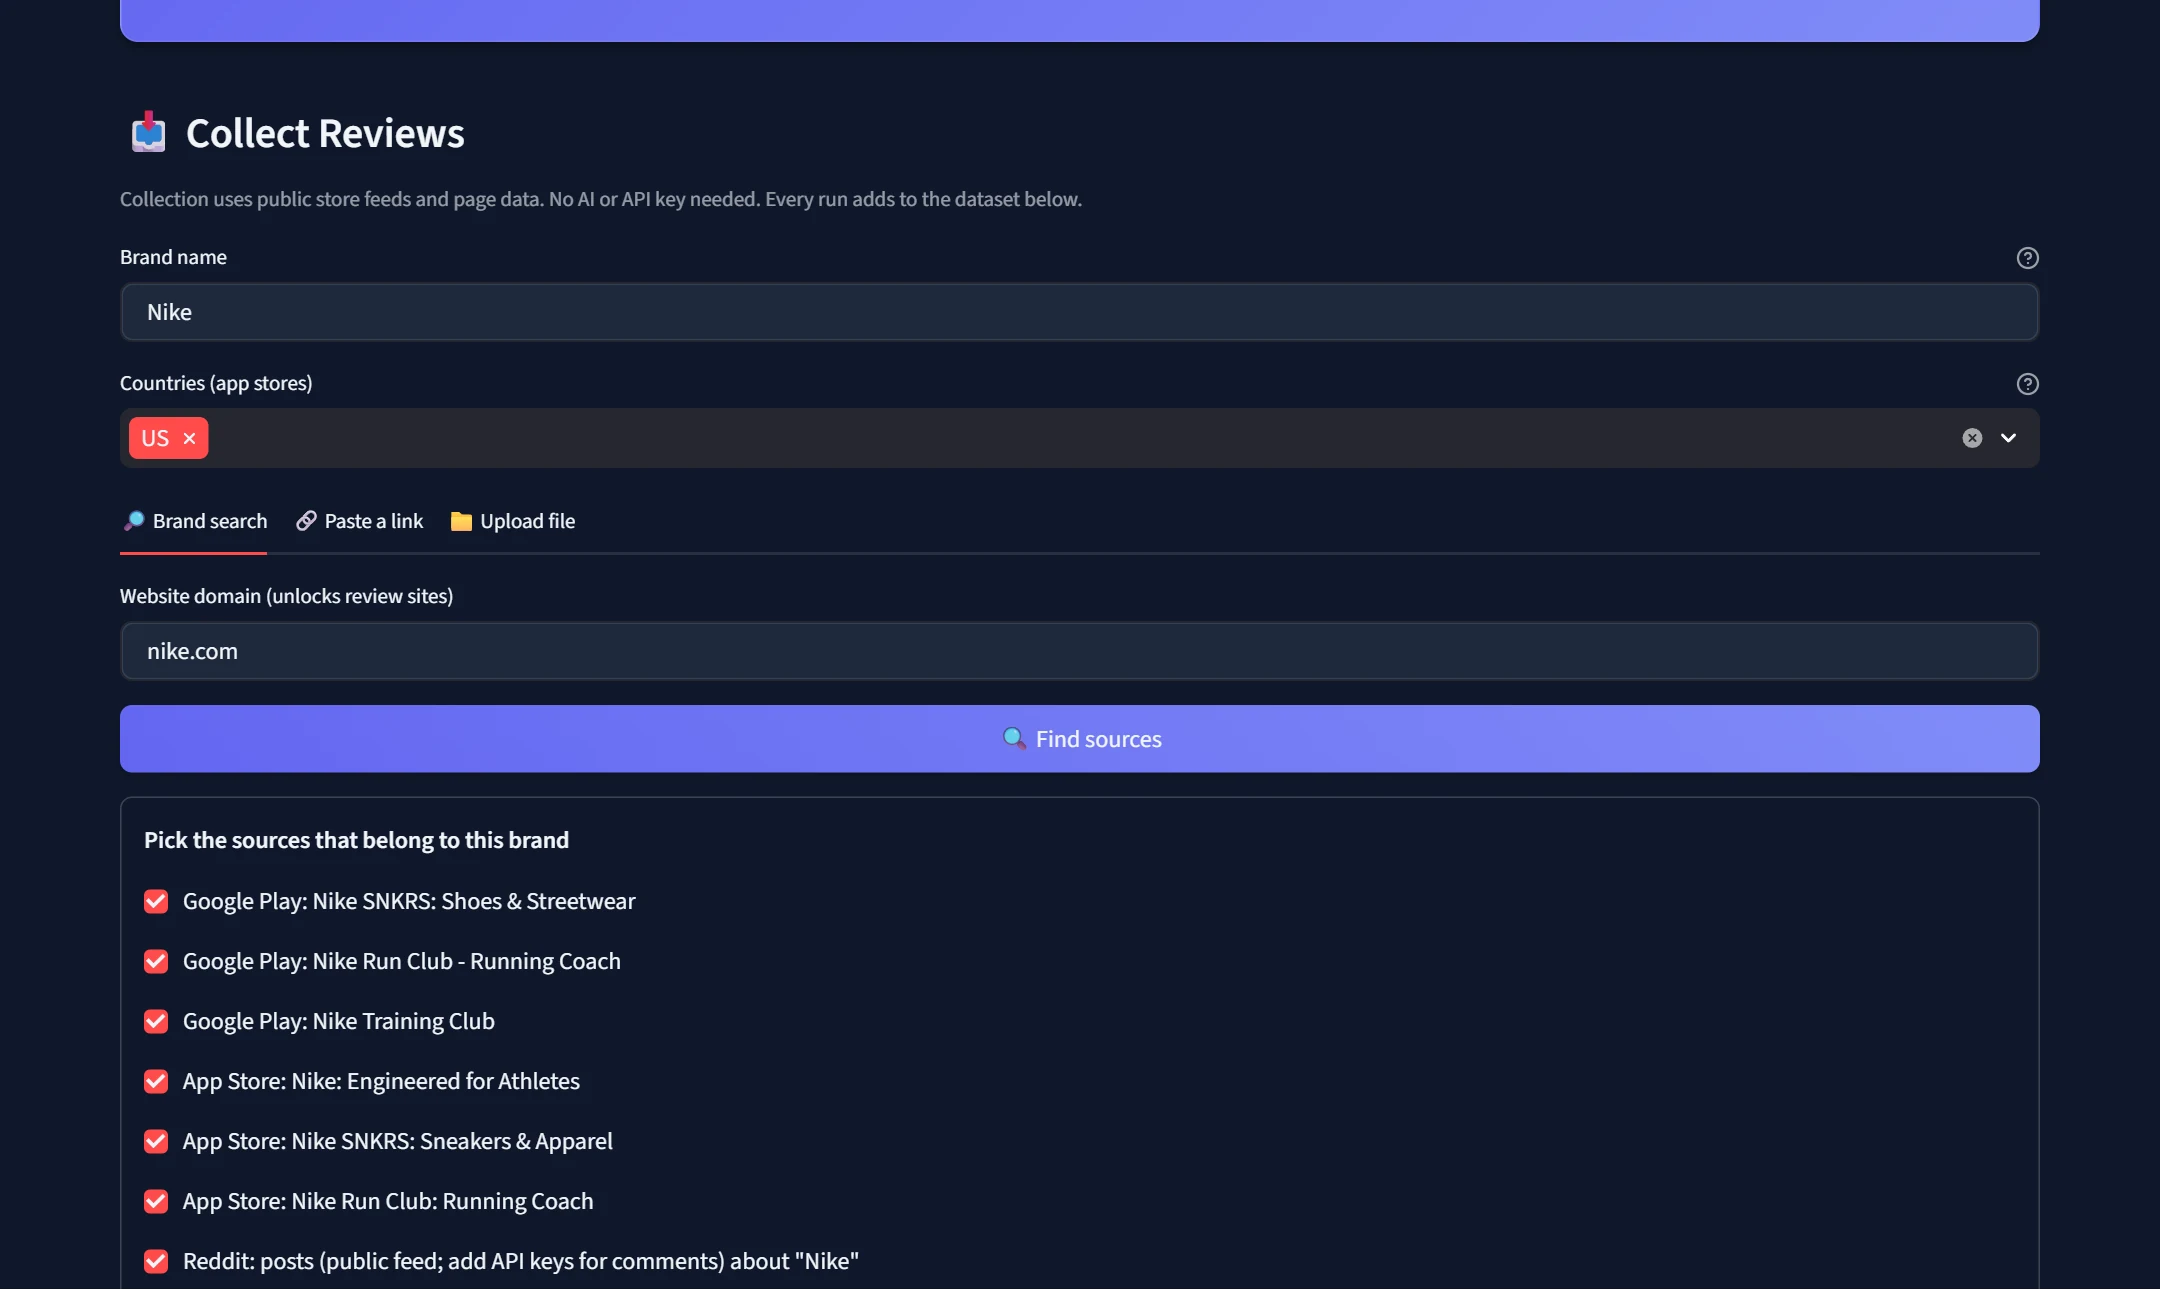
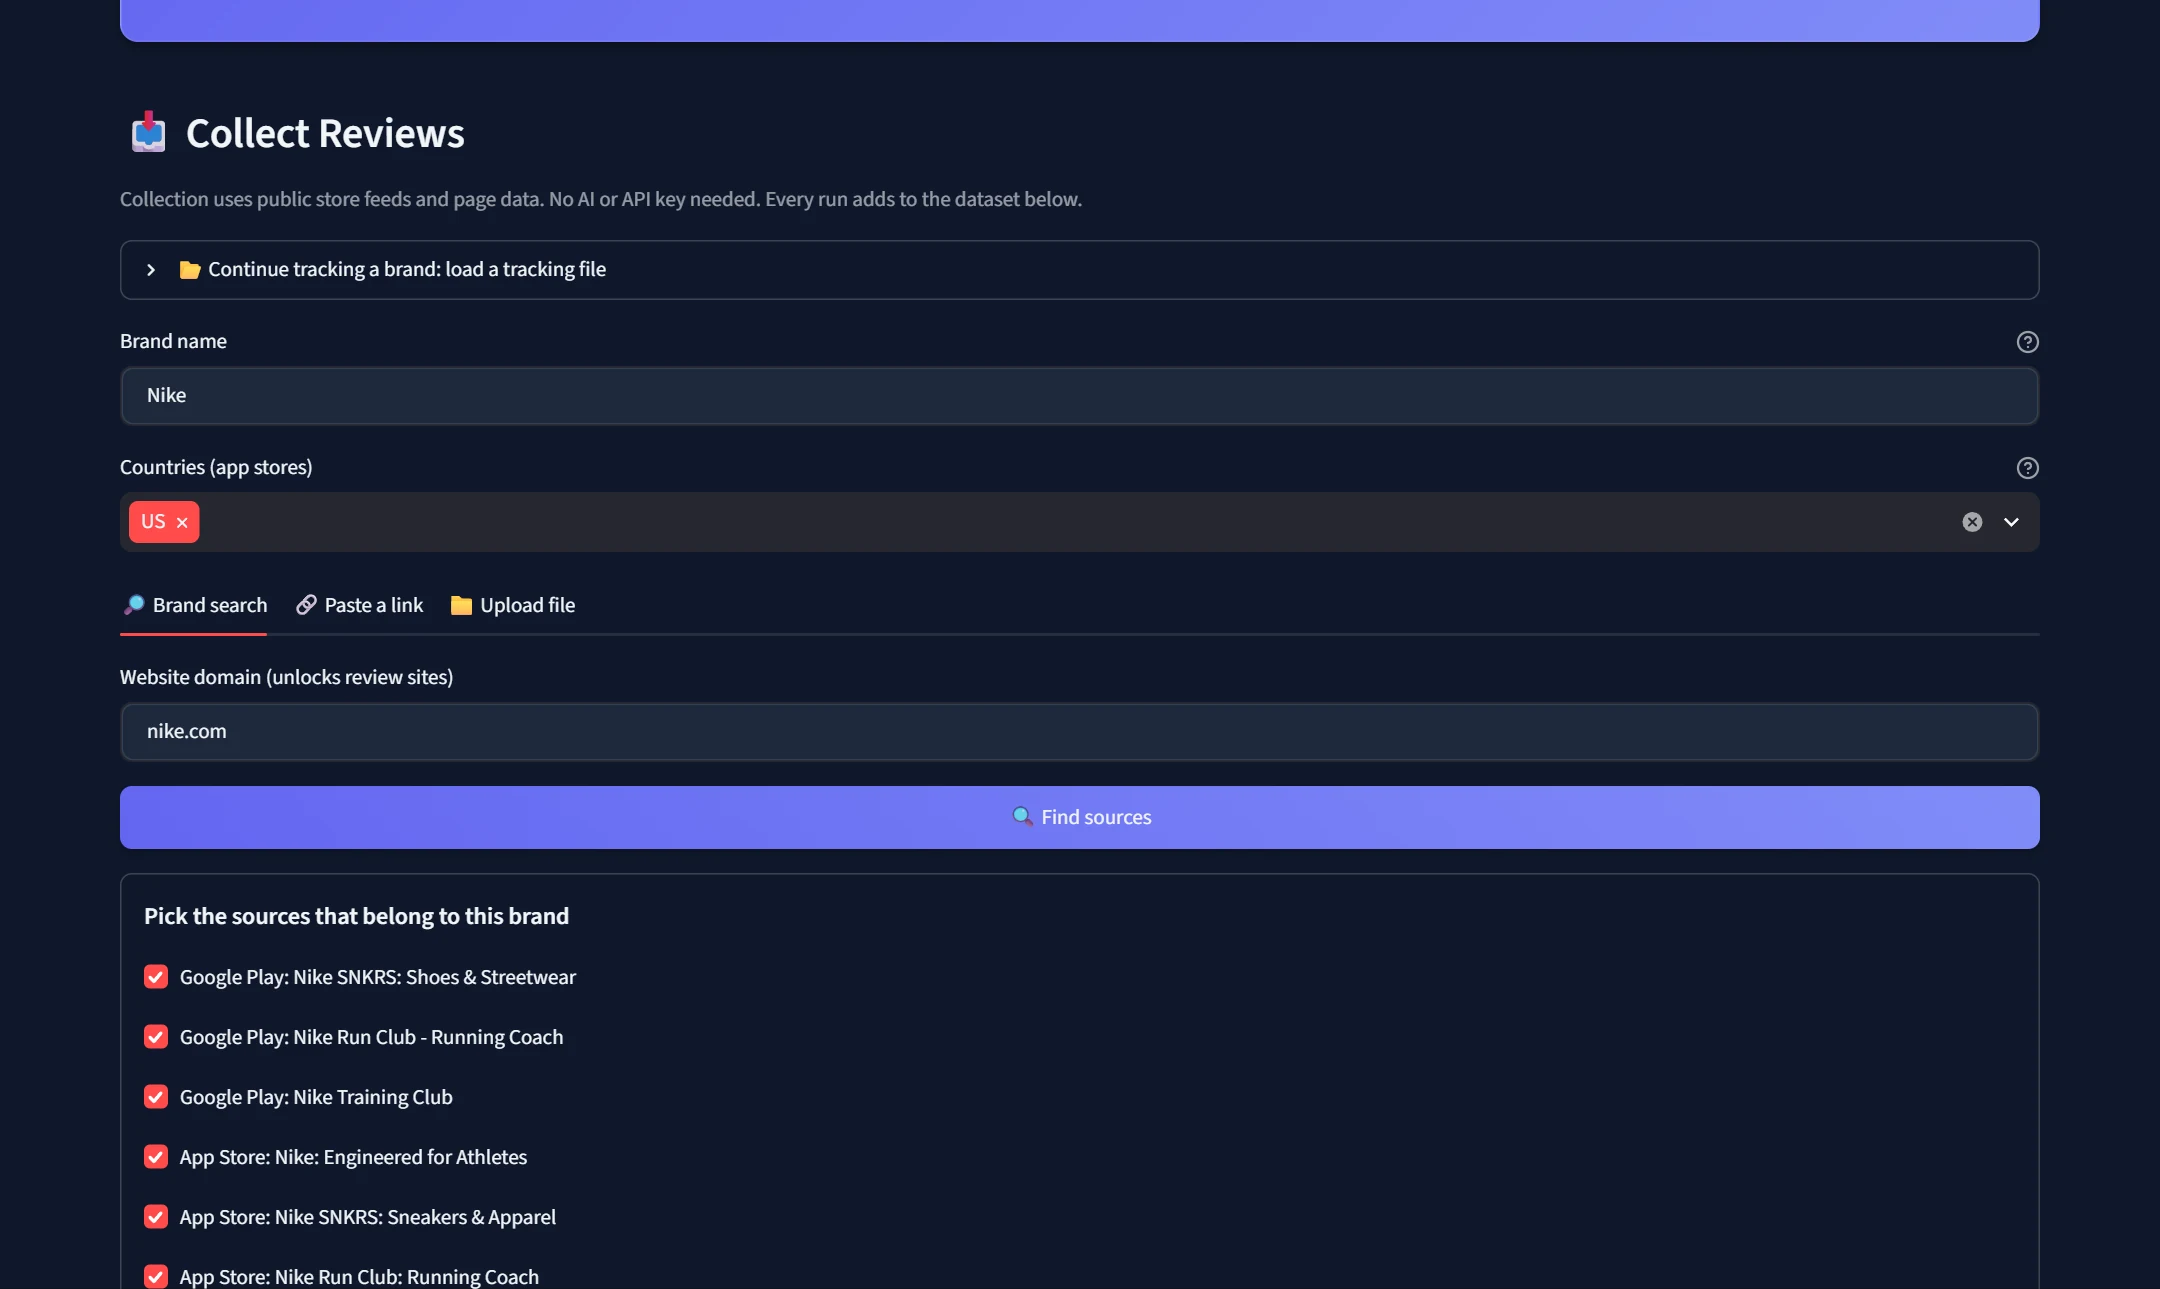
New Voice of Customer screenshots: current app, keyword coverage and spot-check

diff --git a/projects/voiceofcustomer/index.html b/projects/voiceofcustomer/index.html
@@ -309,10 +309,10 @@
     <div class="shell">
       <figure class="reveal shot-lead">
         <div class="shot">
-          <img src="app-report.webp" alt="The report for 1,399 Nike and Adidas reviews: a source filter, headline numbers, a table of eight themes with share, average rating and sentiment, and the start of a sentiment chart."
+          <img src="app-report.webp" alt="The report for 1,593 Nike and Adidas reviews, classified by keywords alone: source and language filters, headline numbers (2.89 stars, 51% negative, 67% matched to a theme), a table of themes with share, average rating and sentiment, and the start of a sentiment chart."
                width="2160" height="1265" loading="lazy" decoding="async">
         </div>
-        <figcaption>Every theme with its share, average rating and sentiment. Filter the sources and the whole report follows.</figcaption>
+        <figcaption>Every theme with its share, average rating and sentiment, placed by keywords with no AI. Filter the sources or languages and the whole report follows.</figcaption>
       </figure>
 
       <div class="stats">
@@ -374,12 +374,12 @@
 
       <figure class="reveal shot-lead">
         <div class="shot">
-          <img src="app-sentiment.webp" alt="A stacked bar chart of sentiment by theme. Returns and refunds is the most negative theme at the top, positive experiences the least negative at the bottom."
+          <img src="app-sentiment.webp" alt="A stacked bar chart of sentiment by theme. Returns, refunds and exchanges is the most negative theme at the top, positive experiences the least negative at the bottom."
                width="2160" height="1289" loading="lazy" decoding="async">
         </div>
         <figcaption>
           Sentiment by theme, sorted so the most negative theme sits at the top.
-          Here, <strong>returns and refunds</strong> is 95% negative across both brands.
+          Here, <strong>returns and refunds</strong> is 96% negative across both brands.
         </figcaption>
       </figure>
 
@@ -450,14 +450,31 @@
       <div class="gallery">
         <figure class="reveal">
           <div class="shot">
-            <img src="app-collect.webp" alt="Brand search for Nike: the brand name, a country picker, the website domain, and a checklist of the Google Play apps, App Store apps and Reddit feed it found."
+            <img src="app-coverage.webp" alt="Improve keyword coverage with German picked in the language list: the most common German words in reviews no keyword placed, such as schuhe, bestellung, qualität and kundenservice, each with a count and an example review."
+                 width="2160" height="1289" loading="lazy" decoding="async">
+          </div>
+          <figcaption>German reviews no keyword placed, with German filler words left out. Pick a theme for any word and every review is re-sorted.</figcaption>
+        </figure>
+        <figure class="reveal" style="--d:.06s">
+          <div class="shot">
+            <img src="app-spotcheck.webp" alt="Spot-check keyword accuracy: keyword-placed reviews marked right or wrong, giving 62% (5 of 8 marked right), and the keywords behind the wrong placements: love nike, can't sign in and ai."
+                 width="2160" height="1289" loading="lazy" decoding="async">
+          </div>
+          <figcaption>Mark a sample right or wrong to measure the keywords. Here 5 of 8 were right, and the panel names the keywords to tighten.</figcaption>
+        </figure>
+      </div>
+
+      <div class="gallery">
+        <figure class="reveal">
+          <div class="shot">
+            <img src="app-collect.webp" alt="Brand search for Nike: an option to continue tracking from a saved file, the brand name, a country picker, the website domain, and a checklist of the Google Play and App Store apps it found."
                  width="2160" height="1289" loading="lazy" decoding="async">
           </div>
           <figcaption>Brand search finds the apps and review pages. You tick the ones that belong.</figcaption>
         </figure>
         <figure class="reveal" style="--d:.06s">
           <div class="shot">
-            <img src="app-compare.webp" alt="Adidas and Nike compared on one theme list: share and percent negative for each brand, the change in points, and a grouped bar chart."
+            <img src="app-compare.webp" alt="Adidas and Nike compared on one theme list: share and percent negative for each brand and the change in points. Returns are 100% negative for Adidas against 87% for Nike."
                  width="2160" height="1289" loading="lazy" decoding="async">
           </div>
           <figcaption>Two brands on one theme list, with the shift in each theme in points.</figcaption>
